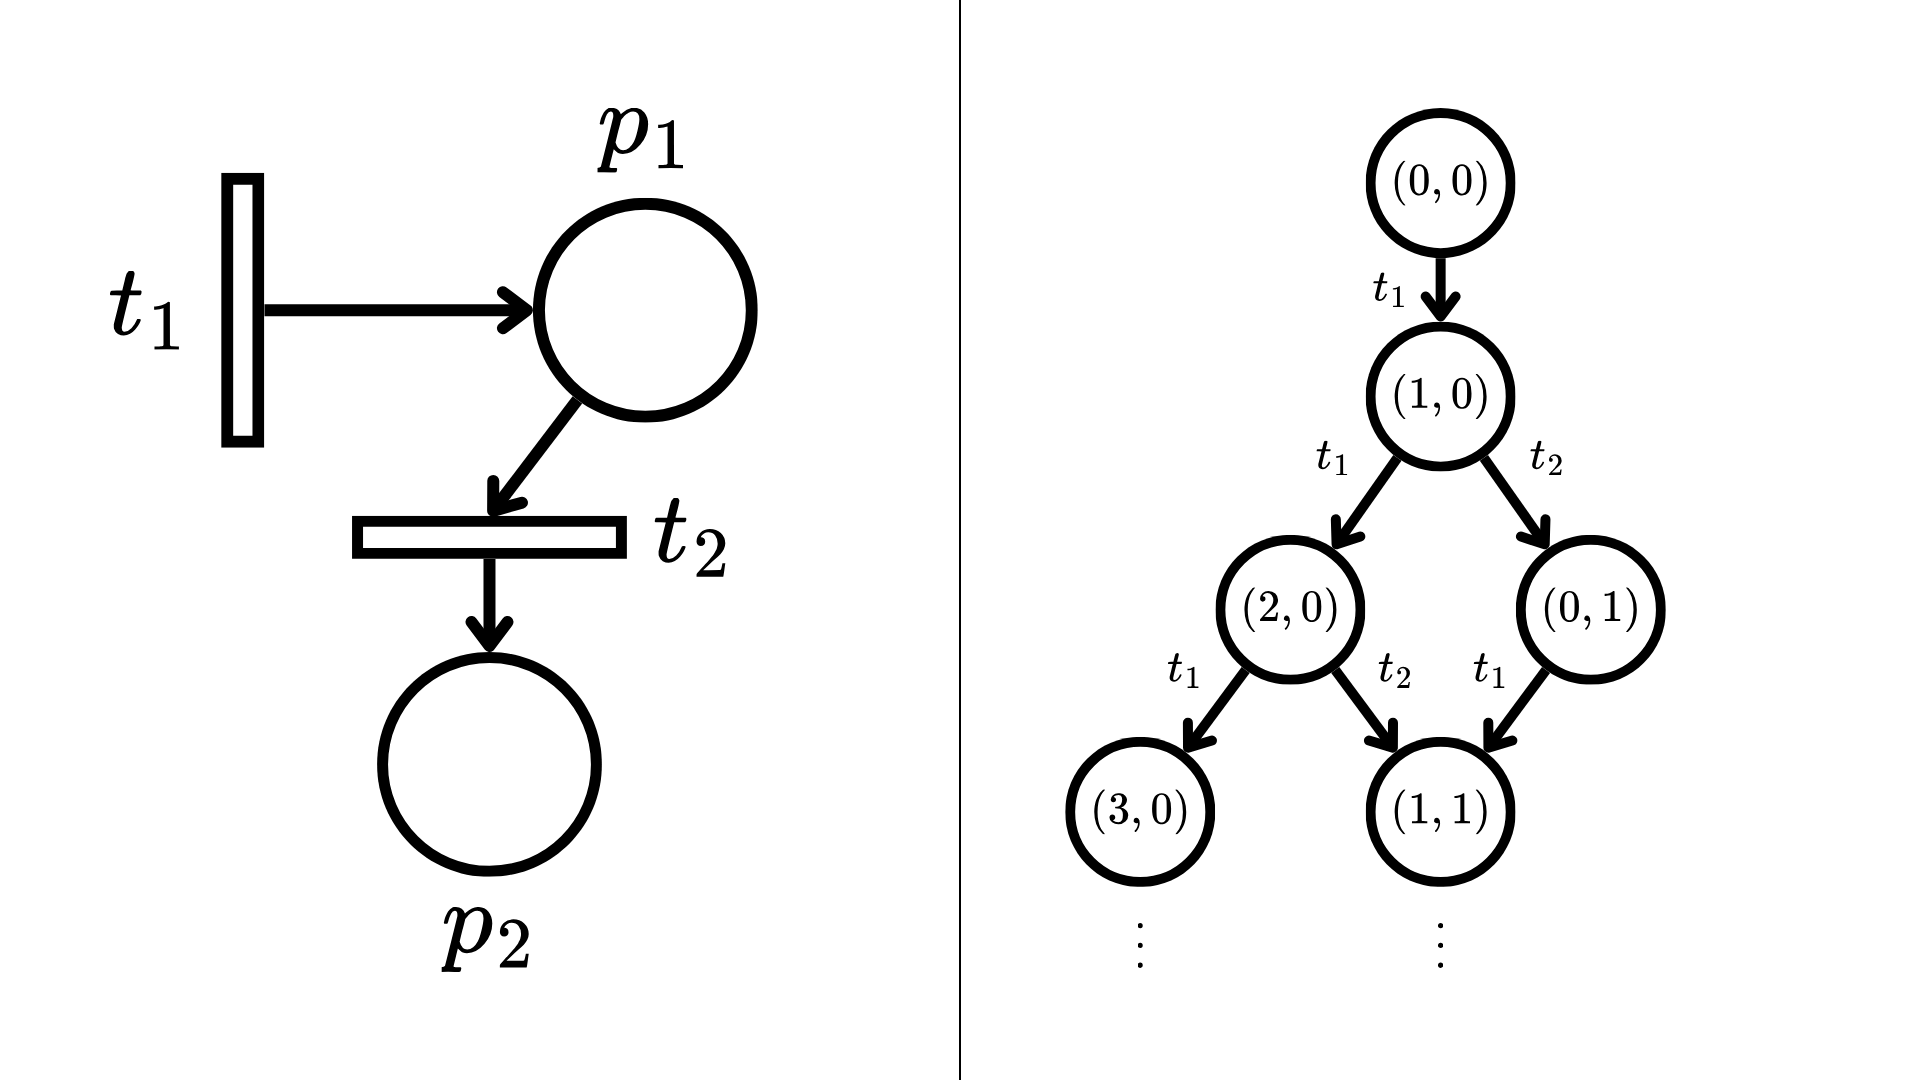
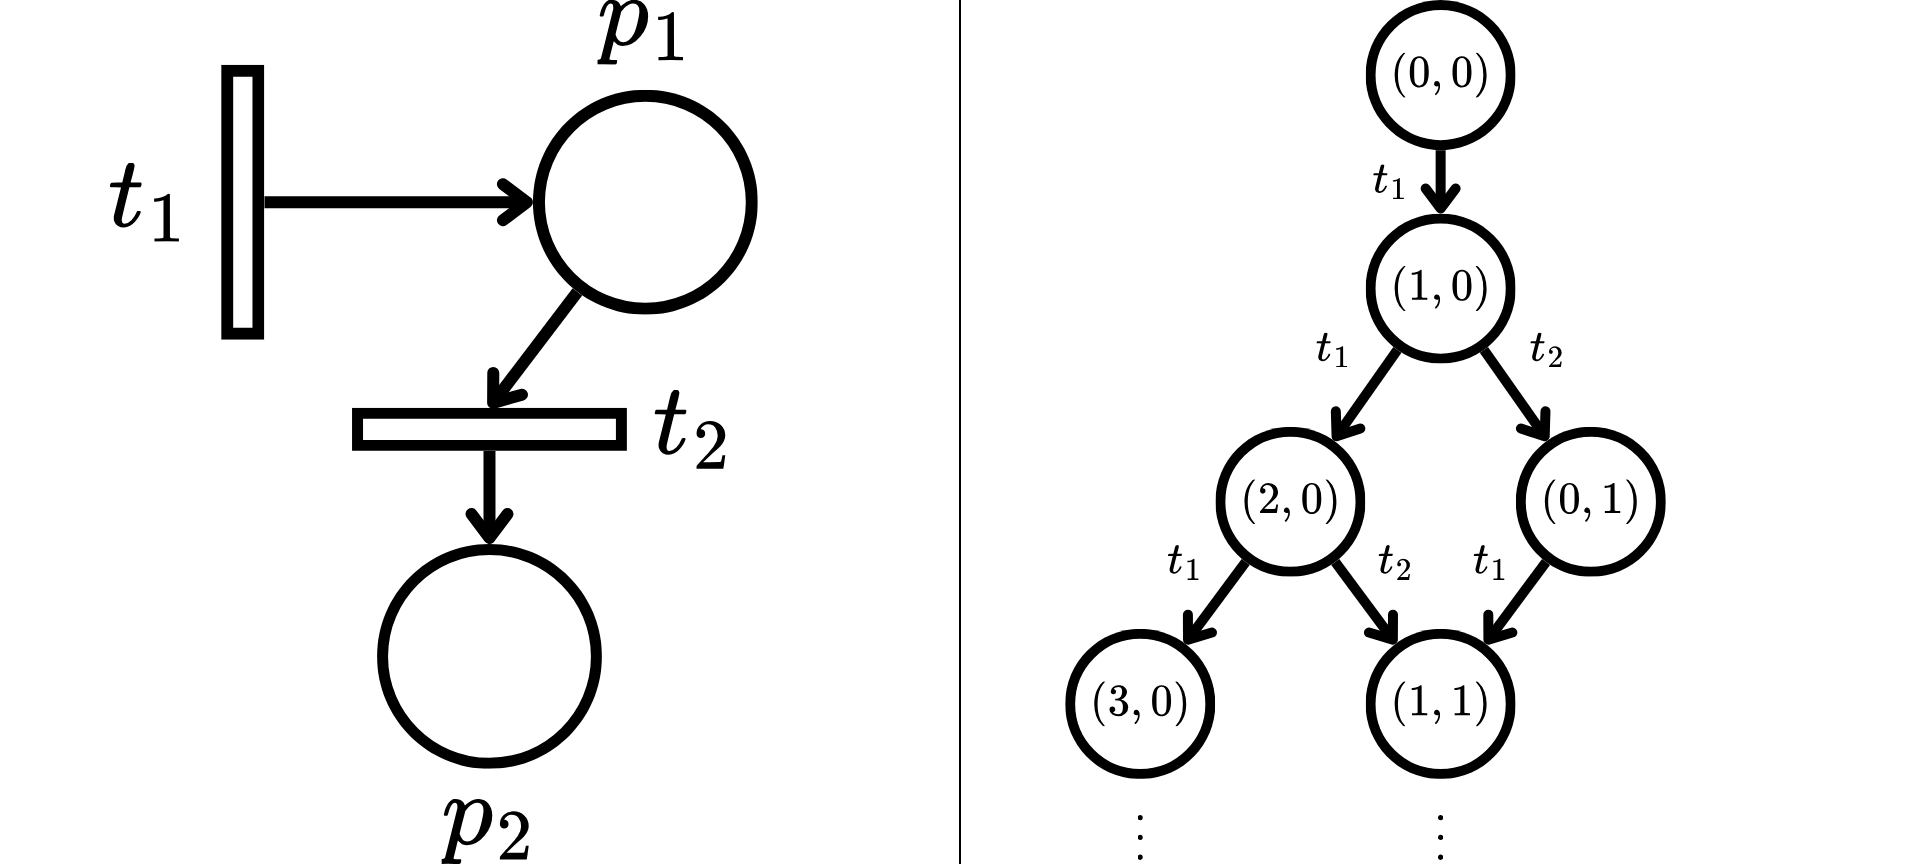
Reorganized & added intuition texts for extension arcs + Explained Turing to Minsky machine implementation

diff --git a/main.tex b/main.tex
@@ -376,11 +376,20 @@ La résolution du système $\incid^t(f) = 0$ entraîne l'apparition d'une base d
 
 \subsection{Extensions d'arcs}
 
-Les réseaux de Petri ainsi construits ont un ensemble de propriétés intéressantes permettant de visualiser un système concurrentiel, des rendez-vous, etc. Cependant, leur expressivité est ainsi trop limitée pour des problèmes complexes. Cette dernière peut être améliorée grâce à des extensions fonctionnelles au niveau du fonctionnement des arcs, au détriment de la décidabilité de certaines propriétés des réseaux de Petri classiques.
+Les réseaux de Petri ainsi construits ont un ensemble de propriétés intéressantes permettant de visualiser un système concurrentiel, des rendez-vous, etc. Cependant, leur expressivité est ainsi trop limitée pour des problèmes complexes. Cette dernière peut être améliorée grâce à des extensions fonctionnelles au niveau du fonctionnement des arcs, au détriment de la décidabilité de certaines propriétés des réseaux de Petri classiques. Nous allons donc les mettre en avant en exposant, pour chacune d'entre elles, une définition formelle en fin de section.
 
-\subsubsection{Définitions}
+\subsubsection{Arcs inhibiteurs}
 
-Premièrement, nous reprenons la notion d'arcs inhibiteurs. Ceux-ci permettent d'effectuer un test à 0 sur une place donnée ; ainsi, un arc inhibiteur $(p, t) \in P \times T$ garantit que, lors du tir de $t$ dans un marquage $m$, on a $m(p) = 0$. Nous définissons ce type d'arc via le paragraphe suivant.
+Premièrement, nous reprenons la notion d'arcs inhibiteurs. Ceux-ci permettent d'effectuer un test à 0 sur une place donnée ; ainsi, un arc inhibiteur $(p, t) \in P \times T$ garantit que, lors du tir de $t$ dans un marquage $m$, on a $m(p) = 0$.
+
+\begin{figure}[ht]
+    \centering
+    \includegraphics[width=0.5\linewidth]{img/inhibitory-petri-net.png}
+    \caption{Réseau de Petri étendu par un arc inhibiteur.}
+    \label{fig:inhibitory-petri-net}
+\end{figure}
+
+Considérons le réseau de la figure \ref{fig:inhibitory-petri-net}, ayant pour marquage initial $m_0 := (0, 0)$. L'arc inhibiteur $(p_1, t_2)$ est identifiable par son extrémité en forme de cercle. Remarquons donc que $t_2$ est sensibilisée : en effet, $m_0(p_1) = 0$, d'où l'on obtient le marquage $m_1 := (0, 1)$ en la tirant. En réalité, $p_2$ peut donc contenir autant de jetons que l'on souhaite, tant que $t_1$ n'est pas tirée : celle-ci va ajouter un jeton dans $p_1$, donc le test à 0 de l'arc inhibiteur $(p_1, t_2)$ n'aboutira pas et empêchera toute future utilisation de $t_2$.
 
 \begin{definition}
     Un réseau de Petri à arcs inhibiteurs est un quintuplet $\mathcal{N} := (P, T, F, \inhibitor, m_0)$ où : \begin{itemize}
@@ -393,7 +402,18 @@ Premièrement, nous reprenons la notion d'arcs inhibiteurs. Ceux-ci permettent d
     \end{itemize}
 \end{definition}
 
+\subsubsection{Arcs de reset}
+
 Deuxièmement, nous reprenons également les arcs de reset. Ces derniers permettent de vider entièrement les jetons d'une place ; ainsi, pour un arc de reset $(p, t) \in P \times T$, le tir de $t$ du marquage $m$ aboutissant au marquage $m'$ garantit que, indépendamment de la valeur de $m(p)$, on obtiendra $m'(p) = 0$.
+
+\begin{figure}[ht]
+    \centering
+    \includegraphics[width=0.4\linewidth]{img/reset-petri-net.png}
+    \caption{Réseau de Petri étendu par un arc de reset.}
+    \label{fig:reset-petri-net}
+\end{figure}
+
+Considérons le réseau de la figure \ref{fig:reset-petri-net}, ayant pour marquage initial $m_0 := (1, 0)$. L'arc de reset $(p_1, t_1)$ est identifiable par la présence de la croix et l'absence de flèche en bout d'arc. En effet, il est inutile d'imposer une direction à cet arc puisque ce dernier est destiné à vider $p_1$ ; on n'aura donc pas d'arc retour $(t_1, p_1)$. À l'instar du réseau à arcs inhibiteurs de la figure \ref{fig:inhibitory-petri-net}, la transition $t_2$ peut être tirée autant de fois que souhaité, jusqu'à ce que l'on utilise $t_1$ qui vide $p_1$ de son jeton. Dans un tel cas, les préconditions de $t_2$ ne sont plus remplies, car on aurait un marquage de la forme $m' := (0, *)$, or $F(p_1, t_2) = 1$.
 
 \begin{definition}
     Un réseau de Petri à arcs de reset est un quintuplet $\mathcal{N} := (P, T, F, \reset, m_0)$ où : \begin{itemize}
@@ -416,6 +436,8 @@ Deuxièmement, nous reprenons également les arcs de reset. Ces derniers permett
     En effet, par abus de notation, on notera que $p = m(p)$ dans le cadre d'une équation caractéristique.
 \end{remark}
 
+\subsubsection{Arcs restants}
+
 Enfin, nous terminons par les arcs de transfert qui permettent, comme leur nom l'indique, de transférer tous les jetons d'une place à une autre. En effet, pour une paire d'arcs de transfert $(p, t), (t, p') \in P \times T$, le tir de $t$ du marquage $m$ aboutissant à $m'$ garantit que $m'(p) = 0$ et $m'(q) = m(p)$.
 
 \begin{definition}
@@ -436,7 +458,7 @@ Il existe également une dernière extension des réseaux de Petri qui n'augment
 
 Comme nous le savons, il est impossible de déterminer l'arrêt d'une machine de Turing. Cette propriété est fondamentale pour les paragraphes qui suivent. En effet, il existe un autre type d'automate nommé les machines de Minsky (cf. \cite{sapir}) dont le pouvoir expressif est équivalent à celui des machines de Turing.
 
-Ces dernières reposent sur un ensemble d'états, de deux compteurs positifs, et d'un ensemble de transitions labellisées permettant de passer d'un état à un autre en modifiant les compteurs. Plus particulièrement, les opérations possibles sur chaque compteur sont l'\textit{incrémentation} et la \textit{décrémentation} précédée d'un \textit{test à 0}. On démarre d'une configuration initiale $(q, c_1, c_2) \in Q \times \mathbb{N}^2$ où $q$ est l'état initial et $c_1, c_2$ sont les valeurs des compteurs.
+Ces dernières reposent sur un ensemble d'états, de compteurs positifs, et d'un ensemble de transitions labellisées permettant de passer d'un état à un autre en modifiant les compteurs. Plus particulièrement, les opérations possibles sur chaque compteur sont l'\textit{incrémentation} et la \textit{décrémentation} précédée d'un \textit{test à 0}. Dans ce document, nous nous intéressons seulement aux machines à 2 compteurs. Nous démarrons donc d'une configuration initiale $(q, c_1, c_2) \in Q \times \mathbb{N}^2$ où $q$ est l'état initial et $c_1, c_2$ sont les valeurs des compteurs.
 
 \begin{figure}[ht]
     \centering
@@ -455,18 +477,34 @@ Considérons la machine de Minsky de la figure \ref{fig:minsky-machine-example}.
     Soit $\mathcal{M}$ une machine de Minsky. On définit de manière équivalente l'ensemble des configurations accessibles de $\mathcal{M}$ depuis $\rho_0$ en $n \in \mathbb{N}$ transitions labellisées par l'ensemble \[\reach[n]{M}{\rho_0} := \{\rho \in C_{\mathcal{M}} \mid \exists \sigma \in T_{\mathcal{M}}^n,\ \rho_0 \reaches[\sigma] \rho\}\]
 \end{definition}
 
-\begin{theorem}
+Marvin Lee Minsky a démontré lui-même que ses machines à compteurs sont Turing-complètes, comme sourcé dans le théorème ci-dessous. L'idée globale est de simuler une machine de Turing $\mathcal{T}$ en s'appuyant sur une machine de Minsky $\mathcal{M}_{\mathcal{T}}$ à 4 compteurs qui simulent 2 piles. Celles-ci permettent de stocker les valeurs des parties gauche et droite du ruban de $\mathcal{T}$ par rapport à la tête de lecture. Ainsi, un changement de position de la tête correspond à l'action de dépiler l'une des deux piles et d'empiler le dernier élément observé par la tête sur l'autre pile.
+
+\begin{figure}[ht]
+    \centering
+    \includegraphics[width=0.75\linewidth]{img/turing-band.png}
+    \caption{Construction de $\mathcal{M}_{\mathcal{T}}$ représentant la machine de Turing $\mathcal{T}$.}
+    \label{fig:turing-band}
+\end{figure}
+
+On peut ensuite encoder ces 4 compteurs dans 2 compteurs $c_1, c_2$ à l'aide du produit de nombre premiers $2^w \times 3^x \times 5^y \times 7^z$ dans $c_1$, où la multiplicité algébrique de chaque nombre, en l'occurrence $w, x, y, z \in \mathbb{N}$ représente la valeur du compteur associé. On peut alors multiplier $c_1$ par $2, 3, 5$ ou $7$ pour augmenter le compteur respectif, et faire un test à 0 de l'un d'eux en vérifiant le critère de divisibilité par leur nombre premier représentatif (succession de soustractions). On en déduit donc le résultat d'indécidabilité de l'arrêt de $\mathcal{M}_{\mathcal{T}}$ dans le corollaire \ref{corollary:minsky-machine-stop-undecidable}.
+
+\begin{theorem}[\text{\autocite[Théorème 14.1-1]{minsky1967computation}}]
     \label{theorem:minsky-machine-turing-complete}
-    Les machines de Minsky sont Turing-complètes.
+    Pour toute machine de Turing $\mathcal{T}$, il existe une machine de Minsky à deux compteurs $\mathcal{M}_{\mathcal{T}}$ au même comportement que $\mathcal{T}$.
 \end{theorem}
 
+\begin{corollary}
+    \label{corollary:minsky-machine-stop-undecidable}
+    Le problème de l'arrêt d'une machine de Minsky est indécidable.
+\end{corollary}
+
 \begin{proof}[Démonstration (schéma)]
-    \textbf{À rédiger.} On commencera par simuler une machine de Turing en s'appuyant sur une machine de Minsky avec 4 compteurs qui simulent 2 piles. Puis, on encodera ces derniers dans 2 compteurs à l'aide de produits de nombres premiers dans l'un, où la multiplicité algébrique de chaque nombre représente la valeur du compteur associé. On peut alors multiplier par l'un des nombres pour augmenter son compteur, et faire un test à 0 en vérifiant le critère de divisibilité (succession de soustractions).
+    Soit $\mathcal{T}$ une machine de Turing. Alors par le théorème \ref{theorem:minsky-machine-turing-complete}, il existe une machine de Minsky $\mathcal{M}_{\mathcal{T}}$ simulant $\mathcal{T}$. Il suffit donc de faire une réduction du problème de l'arrêt de $\mathcal{T}$ au problème de l'arrêt de $\mathcal{M}_{\mathcal{T}}$.
 \end{proof}
 
 \subsubsection{Indécidabilité des réseaux à arcs inhibiteurs}
 
-Comme annoncé, ces nouveaux arcs augmentent fortement l'expressivité des réseaux de Petri. En réalité, il est possible de simuler le fonctionnement d'une machine de Minsky depuis un réseau de Petri à arcs inhibiteurs qui permettent le test à 0. Cette fonctionnalité est inexistante de manière déterministe dans les réseaux de Petri classiques. En effet, sur une place $p \in P$, on pourrait par exemple réduire cette vérification à un test à 1 sur un arc $(p, t)$, puis un test à 2 sur un autre arc $(p, t')$ pour le cas "sinon". Or, si $m(p) \geq 2$, alors les deux transitions $t$ et $t'$ sont sensibilisées, ce qui entraîne que l'on peut toujours tirer $t$, c'est-à-dire que le test à 1 est valide. L'arc inhibiteur contraint donc le test à 0 de manière déterministe, élevant alors un tel réseau de Petri au même niveau que les machines de Minsky.
+Comme annoncé, ces nouveaux arcs augmentent fortement l'expressivité des réseaux de Petri. En réalité, il est possible de simuler le fonctionnement d'une machine de Minsky depuis un réseau de Petri à arcs inhibiteurs qui permettent le test à 0. Cette fonctionnalité est inexistante de manière déterministe dans les réseaux de Petri classiques. En effet, sur une place $p \in P$, on pourrait naïvement penser à réduire cette vérification à un test à 1 sur un arc $(p, t)$, puis un test à 2 sur un autre arc $(p, t')$ pour le cas "sinon". Or, si $m(p) \geq 2$, alors les deux transitions $t$ et $t'$ sont sensibilisées, ce qui entraîne que l'on peut toujours tirer $t$, c'est-à-dire que le test à 1 est valide. L'arc inhibiteur contraint donc le test à 0 de manière déterministe, élevant alors un tel réseau de Petri au même niveau que les machines de Minsky.
 
 \begin{corollary}
     Les réseaux de Petri à arcs inhibiteurs sont Turing-complets.
@@ -568,7 +606,7 @@ Dans les réseaux de Petri discrets étendus par des arcs inhibiteurs, de transf
 
 \subsubsection{Motivation principale}
 
-Nous nous inspirons de \cite{almagor_et_al} qui ont eu l'idée fondatrice dans les ($\mathbb{Q}$)VASS ((\textit{Continuous}) \textit{Vector Addition System with States}). En effet, pour $\mathcal{V}$ un $\mathbb{Q}$VASS donné, ils créent un nouveau $\mathbb{Q}$VASS $\mathcal{V}'$ dans lequel, pour toute paire d'états $(p, q)$ de $\mathcal{V}$ telle qu'il existe une transition labellisée de $p$ à $q$, on crée une paire d'états intermédiaires $(r_p, r_q)$ qui nous permet de garantir que les compteurs, après la transition de $p$ à $q$, ne puissent avoir subi qu'une affectation discrète.
+Nous nous inspirons de \cite{almagor_et_al} qui ont eu une idée fondatrice dans les $\mathbb{Q}$VASS (\textit{Continuous} Vector Addition System with States). En effet, pour $\mathcal{V}$ un $\mathbb{Q}$VASS donné, un nouveau $\mathbb{Q}$VASS $\mathcal{V}'$ est créé dans lequel, pour toute paire d'états $(p, q)$ de $\mathcal{V}$ telle qu'il existe une transition labellisée de $p$ à $q$, une paire d'états intermédiaires $(r_p, r_q)$ est ajoutée, ce qui permet de garantir que les compteurs, après la transition de $p$ à $q$, ne puissent avoir subi qu'une affectation discrète.
 
 Nous allons nous inspirer de cette construction pour nos CEPNs afin de simuler des machines de Minsky. En effet, on souhaite construire un réseau continu à arcs inhibiteurs $\overline{\mathcal{N}}$ tel que tout passage de $p$ à $q$ dans $\mathcal{N}$ se fasse de manière discrète. De cette façon, on réduira le problème d'accessibilité de la variante continue étendue au problème de l'arrêt d'une machine de Minsky, dont l'exécution est séquentielle.
 
@@ -597,7 +635,7 @@ Posons donc $\overline{\mathcal{N}} := (\overline{P}, \overline{T}, \overline{F}
 
 \begin{figure}[ht]
     \centering
-    \includegraphics[width=0.45\linewidth]{img/petri-net.png}
+    \includegraphics[width=0.6\linewidth]{img/petri-net.png}
     \caption{Réseau de Petri discret.}
     \label{fig:petri-net}
 \end{figure}
@@ -852,7 +890,7 @@ Enfin, le théorème suivant appuie l'équivalence entre notre réseau et notre 
 
 \subsection{Arcs de reset}
 
-Dans cette section, nous nous intéressons à l'accessibilité via l'ajout d'arcs de reset à nos réseaux de Petri continus. En réalité, leur implémentation dans cette nouvelle sémantique est naturellement construite en s'appuyant sur les mêmes définitions que dans l'environnement discret, mais en ajoutant les fractions de tirs du côté de la matrice d'incidence seulement. Ainsi, à l'instar des machines de Minsky et des réseaux à arcs inhibiteurs, nous cherchons à simuler des CEPNs à arcs de reset à partir d'arcs inhibiteurs.
+Dans cette section, nous nous intéressons à l'accessibilité via l'ajout d'arcs de reset à nos réseaux de Petri continus. En réalité, leur implémentation dans cette nouvelle sémantique est naturellement construite en s'appuyant sur les mêmes définitions que dans l'environnement discret, mais en ajoutant les fractions de tirs du côté de la matrice d'incidence seulement. Ainsi, à l'instar des machines de Minsky et des réseaux à arcs inhibiteurs, nous cherchons à simuler des CEPNs à arcs inhibiteurs à partir d'arcs de reset.
 
 \subsubsection{D'inhibiteur à reset : construction, définitions, propriétés}
 
@@ -894,14 +932,14 @@ la fonction indicatrice d'inhibition et $\mathbb{I}_{\mathcal{N}} := \indicator_
     \item Pour tout tir $m \creaches[\alpha t] m'$, on redéfinit l'équation caractéristique de la manière suivante : \[m' = m + \alpha.\incid(t) - \reset(t)\]
 \end{enumerate}
 
-La figure \ref{fig:reset-arc-petri-net} nous montre un exemple concret d'une telle construction.
 \begin{figure}[ht]
     \centering
     \includegraphics[width=0.5\linewidth]{img/reset-arc-petri-net.png}
     \caption{Transformation d'un réseau à arcs inhibiteurs en réseau à arcs de reset par \cite{dufourd}.}
     \label{fig:reset-arc-petri-net}
 \end{figure}
-La relation de flots avec tout arc de $p$ est donc reproduite à l'identique pour $p'$, à l'exception de l'arc inhibiteur dont la liaison avec $p$ est retirée pour la transformer en arc de reset sur $p'$.
+
+La figure \ref{fig:reset-arc-petri-net} nous montre un exemple concret d'une telle construction. La relation de flots avec tout arc de $p$ est donc reproduite à l'identique pour $p'$, à l'exception de l'arc inhibiteur dont la liaison avec $p$ est retirée pour la transformer en arc de reset sur $p'$.
 
 \subsubsection{Équivalence des réseaux par isomorphisme}
 
